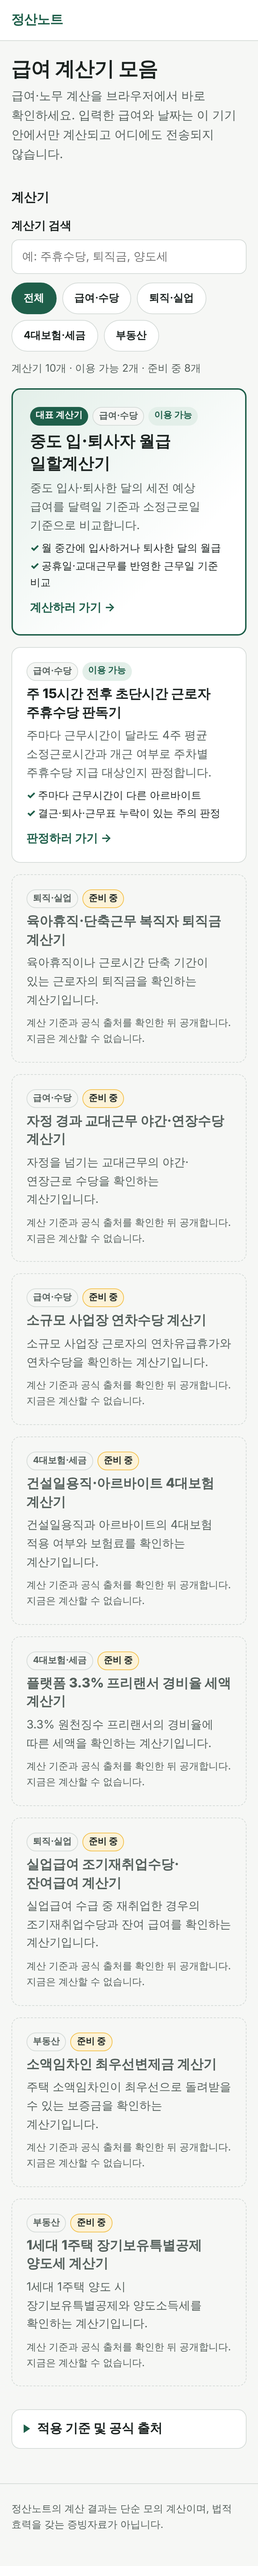
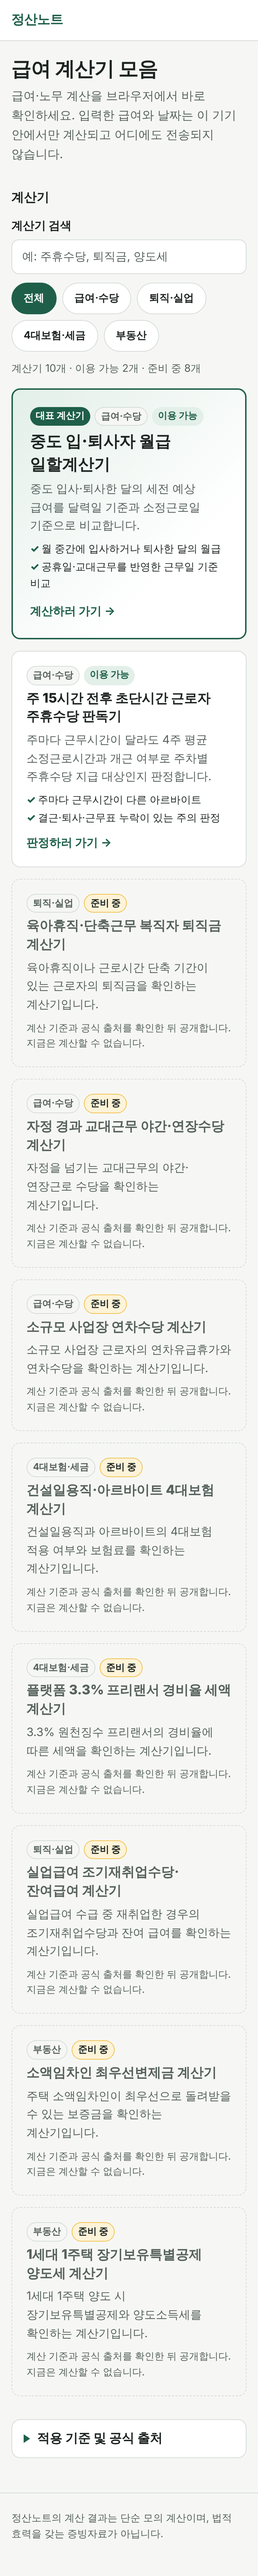
홈 디자인 검토 반영: 여러 낱말 검색, 안내 문구 대비, 배지 13px, 대표 카드 하단 정렬, 머리글 위치 통일
Claude-Session: https://claude.ai/code/session_01Q3BcEdyQ2K5YjfFxHGZibt

diff --git a/site/assets/js/home.js b/site/assets/js/home.js
@@ -15,12 +15,15 @@ let category = 'all';
 const norm = (s) => s.toLowerCase().replace(/\s+/g, '');
 
 function apply() {
-  const q = norm(search.value);
+  // 낱말별 AND 검색: '퇴사 월급', '알바 주휴'처럼 순서·띄어쓰기가 달라도 찾는다
+  const terms = search.value.toLowerCase().split(/\s+/).filter(Boolean);
+  const q = terms.join('');
   let shown = 0;
   let live = 0;
   for (const item of items) {
     const okCat = category === 'all' || item.dataset.category === category;
-    const okText = !q || norm(item.dataset.keywords).includes(q);
+    const hay = norm(item.dataset.keywords);
+    const okText = !terms.length || hay.includes(q) || terms.every((t) => hay.includes(t));
     const visible = okCat && okText;
     item.hidden = !visible;
     if (visible) {

diff --git a/site/assets/css/style.css b/site/assets/css/style.css
@@ -543,3 +543,9 @@ h3.card-title { margin: 0; font-size: 1.15rem; line-height: 1.4; }
 .card-soon-note { font-size: 0.85rem; color: var(--muted); margin-top: 4px; }
 .no-results { padding: 24px; text-align: center; color: var(--muted); border: 1px dashed var(--border); border-radius: var(--radius); }
 .catalog + .basis-fold { margin-top: 32px; }
+/* 홈 디자인 검토 반영 */
+.search-field input::placeholder { color: var(--muted); opacity: 1; }                    /* 다크 모드 대비 */
+.card-cat, .status, .card-tag { font-size: 0.8125rem; }                                   /* 13px */
+.card-featured { display: flex; flex-direction: column; gap: 6px; }
+.card-featured .card-cta { margin-top: auto; padding-top: 8px; }
+.hero .lead { max-width: 44em; }

diff --git a/site/salary-proration/index.html b/site/salary-proration/index.html
@@ -46,7 +46,7 @@
 <body>
   <a class="skip-link" href="#main">본문 바로가기</a>
   <header class="site-header">
-    <div class="container">
+    <div class="container container-wide">
       <a class="brand" href="/">정산노트</a>
     </div>
   </header>

diff --git a/site/weekly-holiday-pay/index.html b/site/weekly-holiday-pay/index.html
@@ -23,7 +23,7 @@
 <body>
   <a class="skip-link" href="#main">본문 바로가기</a>
   <header class="site-header">
-    <div class="container">
+    <div class="container container-wide">
       <a class="brand" href="/">정산노트</a>
     </div>
   </header>

diff --git a/docs/ui/review-home-2026-11-21.md b/docs/ui/review-home-2026-11-21.md
@@ -1,0 +1,53 @@
+# 홈(/) 디자인 품질 검토 — 2026-11-21
+
+- 대상: 브랜치 `claude/canva-design` 작업 트리의 `site/index.html`, `site/assets/css/style.css`, `site/assets/js/home.js` (로컬 임시 서버)
+- 캡처: `node scripts/ui-capture.cjs --out /tmp/claude-0/home-qa --widths 360,390,768,1440`
+  - `/tmp/claude-0/home-qa/home-360-home.png`, `home-390-home.png`, `home-768-home.png`, `home-1440-home.png`
+  - 추가: `/tmp/claude-0/home-qa/home-1440-dark.png`(다크 모드, Playwright `colorScheme: 'dark'`), `/tmp/claude-0/home-qa/home-390-chip-search.png`
+- 측정: Playwright로 계산값 스타일·요소 크기·Tab 순서·접근성 트리를 읽음(측정 스크립트는 저장소 밖 임시 폴더). 범위는 1~3단계(실행·캡처·문제 발견)이며 `site/`는 수정하지 않음.
+
+## 문제 목록
+
+| # | 페이지 | 화면 너비 | 발견한 문제 | 수정 제안 | 우선순위 | 상태 |
+|---|---|---|---|---|---|---|
+| 1 | 홈 | 전체(다크) | 검색창 placeholder(`예: 주휴수당, 퇴직금, 양도세`)가 브라우저 기본색 #757575 그대로라 다크 배경 #1b2120 위에서 대비 **3.55:1**(< 4.5). 라이트는 #757575/#ffffff **4.61:1**로 기준선을 겨우 넘음. 근거: `home-1440-dark.png` | `.search-field input::placeholder { color: var(--muted); }` 같이 공통 입력 스타일에 placeholder 색을 지정(라이트 5.99~6.43, 다크 7.28 예상) | P2 | 발견 |
+| 2 | 홈 | 전체 | 검색어를 띄어 쓰거나 순서를 바꾸면 결과가 0개. `퇴사 월급`→0, `알바 주휴`→0(`월급 일할`·`주 15 시간`은 키워드 순서와 같아서 1개). 공백을 지운 문자열 하나로 부분 일치만 보기 때문. 근거: Playwright 입력 측정 | `home.js`에서 검색어를 공백으로 나누고 낱말마다 `includes`로 맞는지 보는 AND 검색으로 바꿈 | P2 | 발견 |
+| 3 | 홈 | 전체 | 분야 배지(`.card-cat`), 상태 배지(`이용 가능`·`준비 중`), `대표 계산기` 태그 글자가 **12.48px**(0.78rem)로 보조 문구 기준 13px보다 작음. 근거: `home-360-home.png` | `.card-cat, .status`, `.card-tag`를 0.8125rem(13px) 이상으로 | P3 | 발견 |
+| 4 | 홈 | 1440 | 대표 카드(2칸, 747px)와 옆 카드(365px)의 높이가 300px로 같아지면서 대표 카드 아래쪽이 약 70px 비어 보임(CTA가 위로 붙음). 근거: `home-1440-home.png` | 대표 카드에서 CTA를 아래로 붙이거나(`.card-featured .card-cta { margin-top: auto }` + 세로 flex) 2칸 너비에 맞게 안내 목록을 가로로 배치 | P3 | 발견 |
+| 5 | 홈 | 768·1440 | 같은 줄 카드 높이는 같지만 제목이 1줄/2줄로 갈려 설명 시작 위치가 줄마다 다름(카드 위끝 기준 설명 y 85px vs 111px. 예: 1440 2번째 줄 3·4번 111 / 5번 85, 3번째 줄 6번 85 / 7·8번 111). 근거: `home-1440-home.png`, `home-768-home.png` | 필요하면 `.calc-grid`에 subgrid를 쓰거나 제목 칸 최소 높이(2줄)를 둠. 아니면 그대로 둬도 됨 | P3 | 발견 |
+| 6 | 홈 | 1440(라이트·다크) | 준비 중 카드는 배경이 페이지 배경과 같은 색(#f6f7f5 / 다크 #121615)이고 점선 테두리 #d5dbd8(다크 #34403c)만 있어 카드 경계가 흐림. 다크에서는 이용 가능 카드(#1b2120)와 배경 차이도 작아 ‘준비 중’ 배지와 점선에 기대어 구분함. 글자 대비는 충분(아래 표). 근거: `home-1440-dark.png`, `home-1440-home.png` | 의도한 ‘비활성’ 표현이면 유지. 구분을 더 주려면 준비 중 카드 제목 옆에 잠금/시계 아이콘 등 모양 단서를 추가 | P3 | 발견 |
+| 7 | 홈 ↔ 계산기 | 1440 | 홈만 `container-wide`(1160px)를 써서 머리글의 ‘정산노트’ 로고 x 위치가 홈 156px, 계산기 두 페이지 356px. 페이지를 오가면 로고가 좌우로 움직임. 근거: Playwright 측정(`.brand` 위치), `home-1440-home.png` | 머리글 `.container` 너비를 세 페이지에서 같게 두고, 본문만 넓힘 | P3 | 발견 |
+| 8 | 홈 | 1440 | 첫 설명 문단(`.lead`)이 1128px 너비에 한 줄로 이어짐(약 70자). 읽을 수는 있으나 줄이 김. 근거: `home-1440-home.png` | `.hero .lead { max-width: 44em; }` 정도로 제한 | P3 | 발견 |
+
+P1 문제는 발견하지 않았다.
+
+## 색상 대비 계산값 (계산된 글자색 / 실제 배경색)
+
+| 요소 | 크기·굵기 | 라이트 | 다크 |
+|---|---|---|---|
+| 배지 `이용 가능` | 12.48px 700 | #1f5f4a / #e3efe9 **6.37** | #5cc39b / #1f3a30 **5.71** |
+| 배지 `준비 중` | 12.48px 700 | #1c2321 / #fdf3d8 **14.48** | #e8eeeb / #3a3220 **10.78** |
+| 분야 배지 `.card-cat` | 12.48px 700 | #56615d / #f6f7f5 **5.99** (흰 카드 위 6.43) | #a3b0ab / #121615 **8.13** |
+| 분야 칩(미선택) | 14.4px 700 | #1c2321 / #ffffff **16.01** | #e8eeeb / #1b2120 **13.90** |
+| 선택된 칩 | 14.4px 700 | #ffffff / #1f5f4a **7.52** | #0d1a15 / #5cc39b **8.28** |
+| `대표 계산기` 태그 | 12.48px 700 | #ffffff / #1f5f4a **7.52** | #0d1a15 / #5cc39b **8.28** |
+| 준비 중 카드 제목(회색) | 18.4px 800 | #56615d / #f6f7f5 **5.99** | #a3b0ab / #121615 **8.13** |
+| 준비 중 카드 설명 | 16px | #56615d / #f6f7f5 **5.99** | #a3b0ab / #121615 **8.13** |
+| 준비 중 안내 문구 | 13.6px | #56615d / #f6f7f5 **5.99** | #a3b0ab / #121615 **8.13** |
+| 대표 카드 설명(그라데이션 배경) | 16px | 최저 #e3efe9 위 **5.45** ~ #fff 위 6.43 | 최저 #1f3a30 위 **5.48** ~ 7.28 |
+| 카드 CTA | 16px 700 | 6.37~7.52 | 5.71~8.46 |
+| 개수 문구 `.calc-count` | 14.4px | **5.99** | **8.13** |
+| 설명 문단 `.lead` | 16.8px | **5.99** | **8.13** |
+| 검색 placeholder | 16px | #757575 / #fff **4.61** | #757575 / #1b2120 **3.55** (문제 1) |
+
+## 문제없이 확인된 항목 (디자인 품질 검토 9항목)
+
+1. **전체 디자인 일관성**: h1 28px, 카드 모서리 12px, 색 변수가 홈·계산기 두 페이지에서 같음. 차이는 로고 위치(문제 7)뿐.
+2. **글자 크기·가독성**: 본문 16px, 카드 설명 16px, 안내 목록 14.4px, 준비 중 안내 13.6px, 개수 문구 14.4px, 푸터 14px. 13px 미만은 배지 3종(문제 3)뿐.
+3. **색상 대비**: placeholder(문제 1)를 빼면 위 표의 모든 요소가 라이트·다크 모두 4.5:1 이상.
+4. **입력창·버튼 사용성**: 칩 5개 모두 높이 44px(너비 63~121px), 검색창 높이 48px, 이용 가능 카드 링크는 카드 전체(예: 360px에서 328×344, 328×300). 검색창에 `<label for>` 연결. 포커스 테두리는 칩·검색창·카드 링크 모두 3px solid #0b63ce(카드는 offset 2px).
+5. **모바일 반응형**: 360·390·768·1440 모두 가로 넘침 0px, 화면 밖으로 나간 요소 0개. 열 수는 360·390에서 1열, 768에서 2열, 1440에서 3열. 대표 카드는 768에서 2칸(736px), 1440에서 2칸(747px). 360·390에서 칩은 두 줄로 줄바꿈되고 잘리지 않음.
+6. **카드 간격·정렬**: 세로 간격 16px(반올림 차이로 15~17px), 가로 간격 16~17px로 일정. 같은 줄 카드 높이는 줄마다 같음(1440: 300/236/262/236, 768: 300/236/236/262). 설명 시작 위치 차이는 문제 5.
+7. **오류 메시지(검색·칩 동작)**: 칩을 누르면 `aria-pressed`가 하나만 true. 급여·수당 4개, 퇴직·실업 2개, 4대보험·세금 2개, 부동산 2개, 전체 10개. `주휴`→1, `양도세`→1, `주 15 시간`(공백)→1, `zzz`→0개이며 ‘검색 결과가 없습니다…’ 안내 표시. 검색어+칩 조합(`퇴직금`+급여·수당→0, 전체로 바꾸면 1)도 맞음. 개수 문구는 `role="status"`로 갱신됨. 검색어를 지우면 처음 상태로 돌아옴.
+8. **접근성·기본 SEO**: h1 1개 → h2 ‘계산기’ → h3 카드 10개 → h2 ‘적용 기준 및 공식 출처’ → h3 3개. 순서가 건너뛰지 않음. 접근성 트리에서 링크 안 h3, `summary` 안 h2 모두 제목으로 노출됨. `lang="ko"`, title ‘급여 계산기 모음 | 정산노트’, description 107자, `robots: noindex, nofollow`(운영 전 상태), 대체 텍스트가 빠진 이미지 0개. 접이식은 처음에 닫혀 있고, 제목줄 오른쪽 빈 곳(x=300)을 눌러도 열리고 닫힘(제목줄 높이 52px).
+9. **미구현 표시**: 준비 중 카드 8개 안에 링크·버튼·tabindex 0개. 눌러도 주소가 바뀌지 않음. Tab 순서는 본문 바로가기 → 로고 → 검색창 → 칩 5개 → 이용 가능 카드 2개 → 접이식 제목줄이며 준비 중 카드는 포커스를 받지 않음. 준비 중 카드에는 점선 테두리, 회색 제목, ‘준비 중’ 배지, ‘지금은 계산할 수 없습니다.’ 문구가 있고 CTA 화살표는 없음.

diff --git a/docs/ui/ui-check-report.md b/docs/ui/ui-check-report.md
@@ -1,7 +1,7 @@
 # 화면 자동 점검 결과
 
-- 실행: 2026-11-21T04:55:25.847Z · 대상: 로컬(site/) · 너비 360·390·768·1440px
-- 집계: 통과 86 · 실패 0
+- 실행: 2026-11-21T05:02:07.783Z · 대상: 로컬(site/) · 너비 360·390·768·1440px
+- 집계: 통과 90 · 실패 0
 
 | 위치 | 항목 | 결과 | 실제값(실패 시) |
 |---|---|---|---|
@@ -13,6 +13,7 @@
 | [주휴수당 계산기 @ 360px] | 첫 화면 가로 스크롤·잘림 없음 | 통과 |  |
 | [홈 @ 360px] | 계산기 10종: 이용 가능 2개만 링크, 준비 중 8개는 링크 없음·‘준비 중’ 표시 | 통과 |  |
 | [홈 @ 360px] | 카드 1열·대표 계산기(1번) 맨 앞 | 통과 |  |
+| [홈 @ 360px] | 여러 낱말 검색(‘퇴사 월급’·‘알바 주휴’ → 각 1개) | 통과 |  |
 | [홈 @ 360px] | 검색(주휴→1개, 없는 말→안내)·분야별 보기(부동산→2개)·전체 복귀 | 통과 |  |
 | [홈 @ 360px] | 홈 ‘적용 기준 및 공식 출처’ 기본 접힘 | 통과 |  |
 | [월급 일할계산기 @ 360px] | 홈 카드 → 대표 사례 결과 | 통과 |  |
@@ -34,6 +35,7 @@
 | [주휴수당 계산기 @ 390px] | 첫 화면 가로 스크롤·잘림 없음 | 통과 |  |
 | [홈 @ 390px] | 계산기 10종: 이용 가능 2개만 링크, 준비 중 8개는 링크 없음·‘준비 중’ 표시 | 통과 |  |
 | [홈 @ 390px] | 카드 1열·대표 계산기(1번) 맨 앞 | 통과 |  |
+| [홈 @ 390px] | 여러 낱말 검색(‘퇴사 월급’·‘알바 주휴’ → 각 1개) | 통과 |  |
 | [홈 @ 390px] | 검색(주휴→1개, 없는 말→안내)·분야별 보기(부동산→2개)·전체 복귀 | 통과 |  |
 | [홈 @ 390px] | 홈 ‘적용 기준 및 공식 출처’ 기본 접힘 | 통과 |  |
 | [월급 일할계산기 @ 390px] | 홈 카드 → 대표 사례 결과 | 통과 |  |
@@ -64,6 +66,7 @@
 | [주휴수당 계산기 @ 768px] | 직접 접속·새로고침 | 통과 |  |
 | [홈 @ 768px] | 계산기 10종: 이용 가능 2개만 링크, 준비 중 8개는 링크 없음·‘준비 중’ 표시 | 통과 |  |
 | [홈 @ 768px] | 카드 2열·대표 계산기(1번) 맨 앞 | 통과 |  |
+| [홈 @ 768px] | 여러 낱말 검색(‘퇴사 월급’·‘알바 주휴’ → 각 1개) | 통과 |  |
 | [홈 @ 768px] | 검색(주휴→1개, 없는 말→안내)·분야별 보기(부동산→2개)·전체 복귀 | 통과 |  |
 | [홈 @ 768px] | 홈 ‘적용 기준 및 공식 출처’ 기본 접힘 | 통과 |  |
 | [월급 일할계산기 @ 768px] | 홈 카드 → 대표 사례 결과 | 통과 |  |
@@ -80,6 +83,7 @@
 | [주휴수당 계산기 @ 1440px] | 직접 접속·새로고침 | 통과 |  |
 | [홈 @ 1440px] | 계산기 10종: 이용 가능 2개만 링크, 준비 중 8개는 링크 없음·‘준비 중’ 표시 | 통과 |  |
 | [홈 @ 1440px] | 카드 3열·대표 계산기(1번) 맨 앞 | 통과 |  |
+| [홈 @ 1440px] | 여러 낱말 검색(‘퇴사 월급’·‘알바 주휴’ → 각 1개) | 통과 |  |
 | [홈 @ 1440px] | 검색(주휴→1개, 없는 말→안내)·분야별 보기(부동산→2개)·전체 복귀 | 통과 |  |
 | [홈 @ 1440px] | 홈 ‘적용 기준 및 공식 출처’ 기본 접힘 | 통과 |  |
 | [월급 일할계산기 @ 1440px] | 홈 카드 → 대표 사례 결과 | 통과 |  |

diff --git a/docs/test-report.md b/docs/test-report.md
@@ -1,7 +1,7 @@
 # 정산노트 검수 결과표
 
-- 실행: 2026-11-21T04:56:34.333Z · 미리보기(site/) · `npm run test:e2e` · Chromium(Playwright) · 시간대 Pacific/Kiritimati(UTC+14)
-- 집계: 통과 101 · 실패 0 · 미확인 3
+- 실행: 2026-11-21T05:03:14.452Z · 미리보기(site/) · `npm run test:e2e` · Chromium(Playwright) · 시간대 Pacific/Kiritimati(UTC+14)
+- 집계: 통과 100 · 실패 0 · 미확인 4
 
 ## 월급 일할계산기 — 필수 검증 사례 5건 (회귀, 브라우저 직접 입력)
 
@@ -64,7 +64,7 @@
 | 결과 아래 안내·면책 문구 | 사례 1 계산 후 결과표 아래 확인 | 지정 문구 2개가 결과표 아래에 원문 그대로 표시 | 결과표 아래=예 · 문구 일치=예 | 통과 |
 | FAQ 3건 | 계산기 하단 “자주 묻는 질문” | 퇴사일 / 토요일·공휴일 / 실제 지급액 질문 3건 | 퇴사일에는 어떤 날짜를 입력하나요? / 토요일이나 공휴일은 어떻게 처리하나요? / 어느 쪽이 실제 지급액인가요? | 통과 |
 | 공식 자료 확인일 · “법정 의무 산식” 미사용 | “적용 기준과 공식 출처” 확인 | “공식 자료 확인일: 2026년 11월 21일” 표시, “법정” 표현 없음 | 확인일 표시 · 법정 표현 없음 | 통과 |
-| 공식 출처 링크: 근로기준법 제43조 (임금 지급) | 링크 클릭 | 새 창에서 https://www.law.go.kr/lsLinkCommonInfo.do?chrClsCd=010202&lsJoLnkSeq=1027161983 열림 | 새 창(_blank noopener noreferrer) “국가법령정보센터 \| 조문정보” | 통과 |
+| 공식 출처 링크: 근로기준법 제43조 (임금 지급) | 링크 클릭 | 새 창에서 https://www.law.go.kr/lsLinkCommonInfo.do?chrClsCd=010202&lsJoLnkSeq=1027161983 열림 | 새 창 주소는 일치하나 외부 사이트 응답을 받지 못함(네트워크 제한) | 미확인 |
 | 공식 출처 링크: 근로기준법 제48조 (임금대장 및 임금명세서) | 링크 클릭 | 새 창에서 https://www.law.go.kr/lsLinkCommonInfo.do?chrClsCd=010202&lsJoLnkSeq=1029728419 열림 | 새 창(_blank noopener noreferrer) “국가법령정보센터 \| 조문정보” | 통과 |
 | 조문 내용과 안내 문구의 대응 | 조문 본문 열람 | 제43조·제48조 본문이 안내 문구의 근거로 적절함 | 법령 해석 판단이 필요해 자동 검수 대상이 아님 — 담당자 확인 필요 | 미확인 |
 
